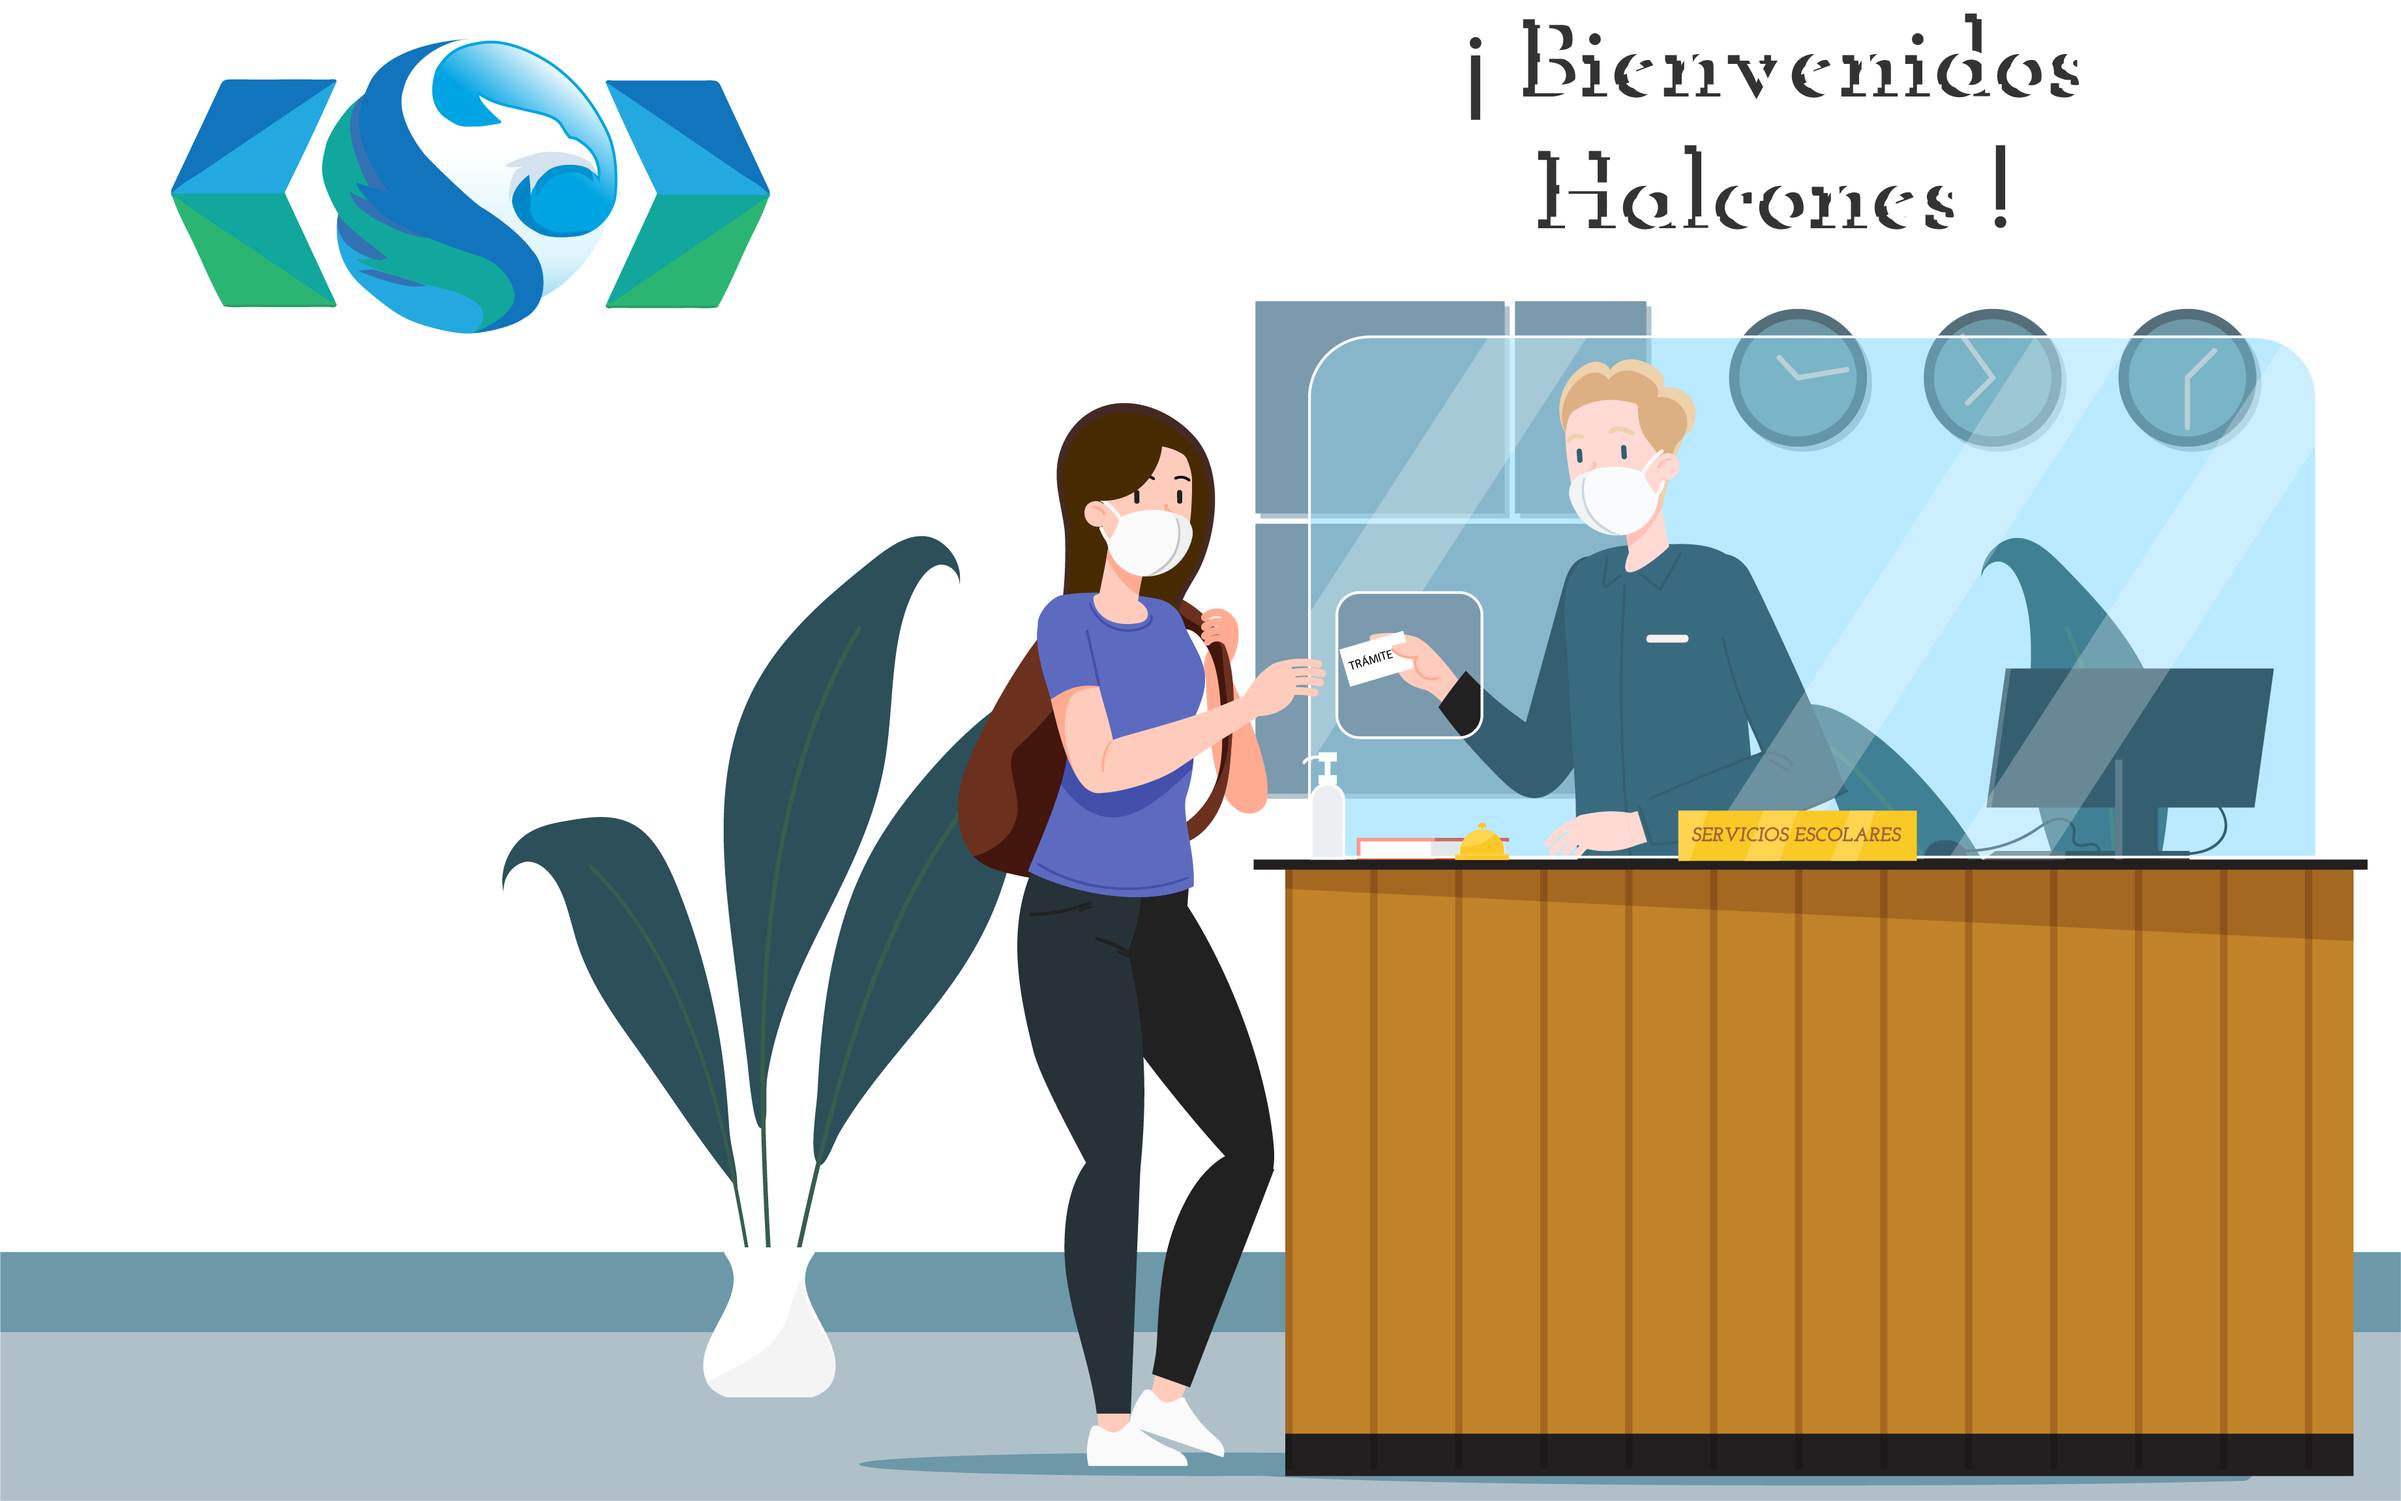
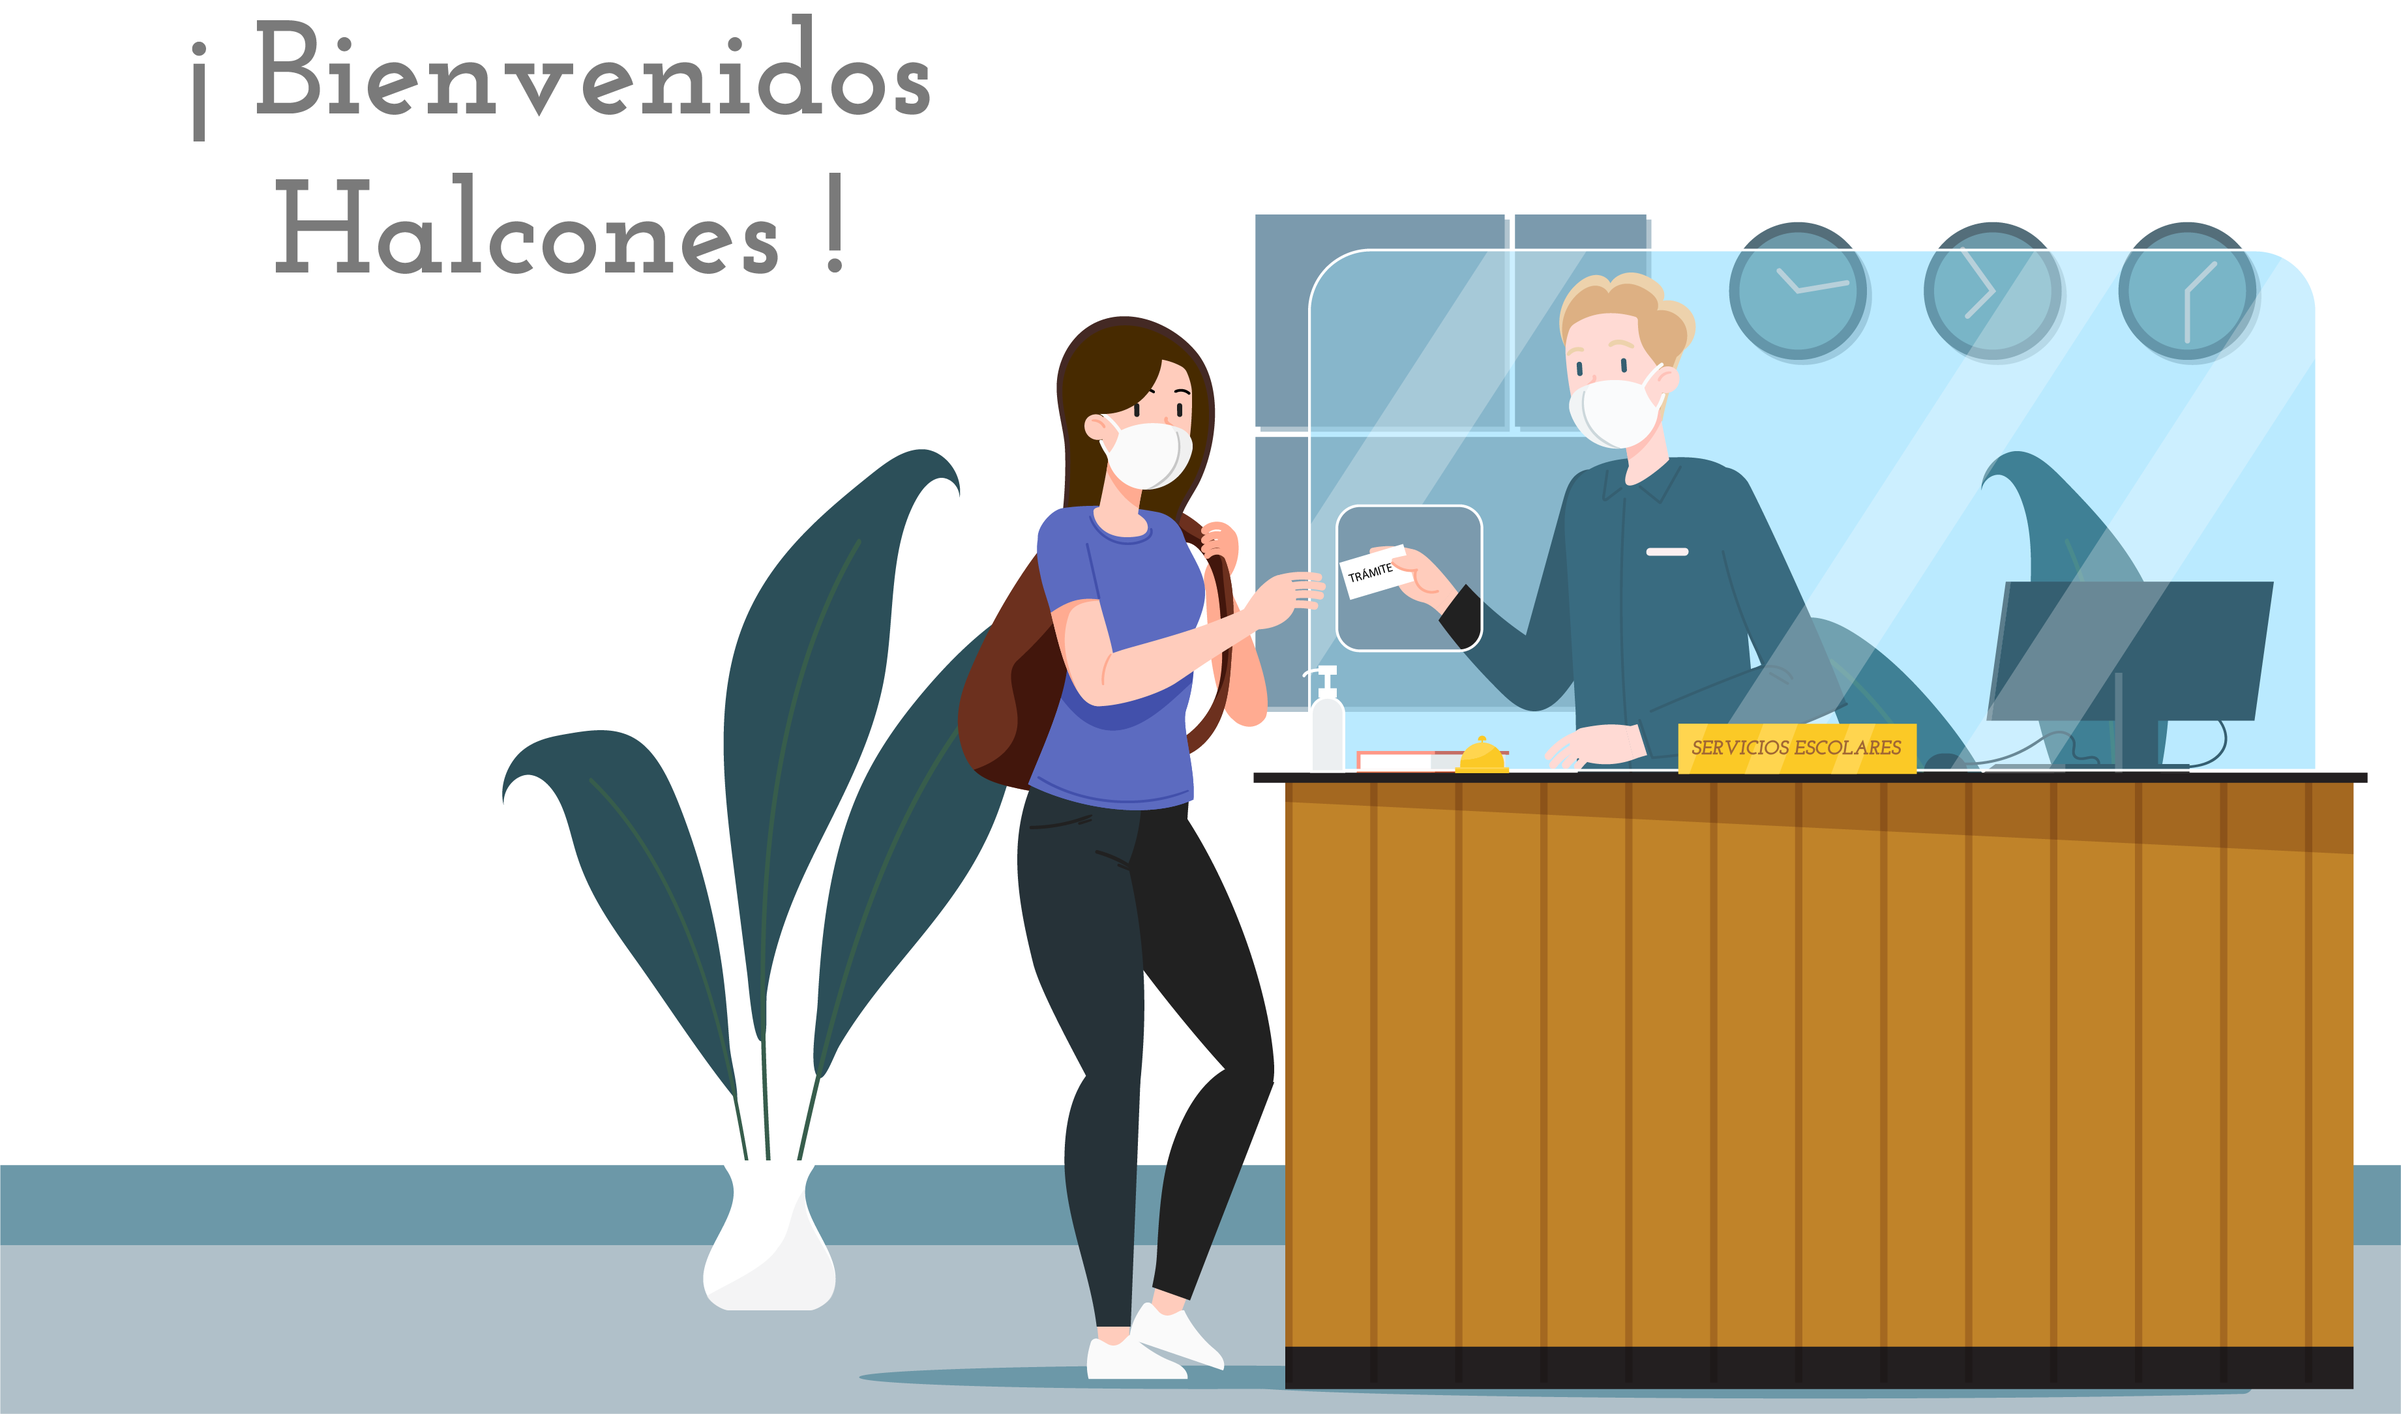
modificacion estilos

diff --git a/3-proyecto MVC/siget/src/main/resources/templates/index.html b/3-proyecto MVC/siget/src/main/resources/templates/index.html
@@ -20,7 +20,8 @@
         <div class="container">
 
             <section class="min-vh-100 d-flex flex-column align-items-center justify-content-center">
-                <img src="assets/img/bienvenido.png"  width="88%">
+                <img alt="" id="fondo" src="assets/img/bienvenido.png" style="float: right; margin: 20px 0 0 20px; width: 80%; max-width: 100%;">
+
             </section>
 
         </div>
